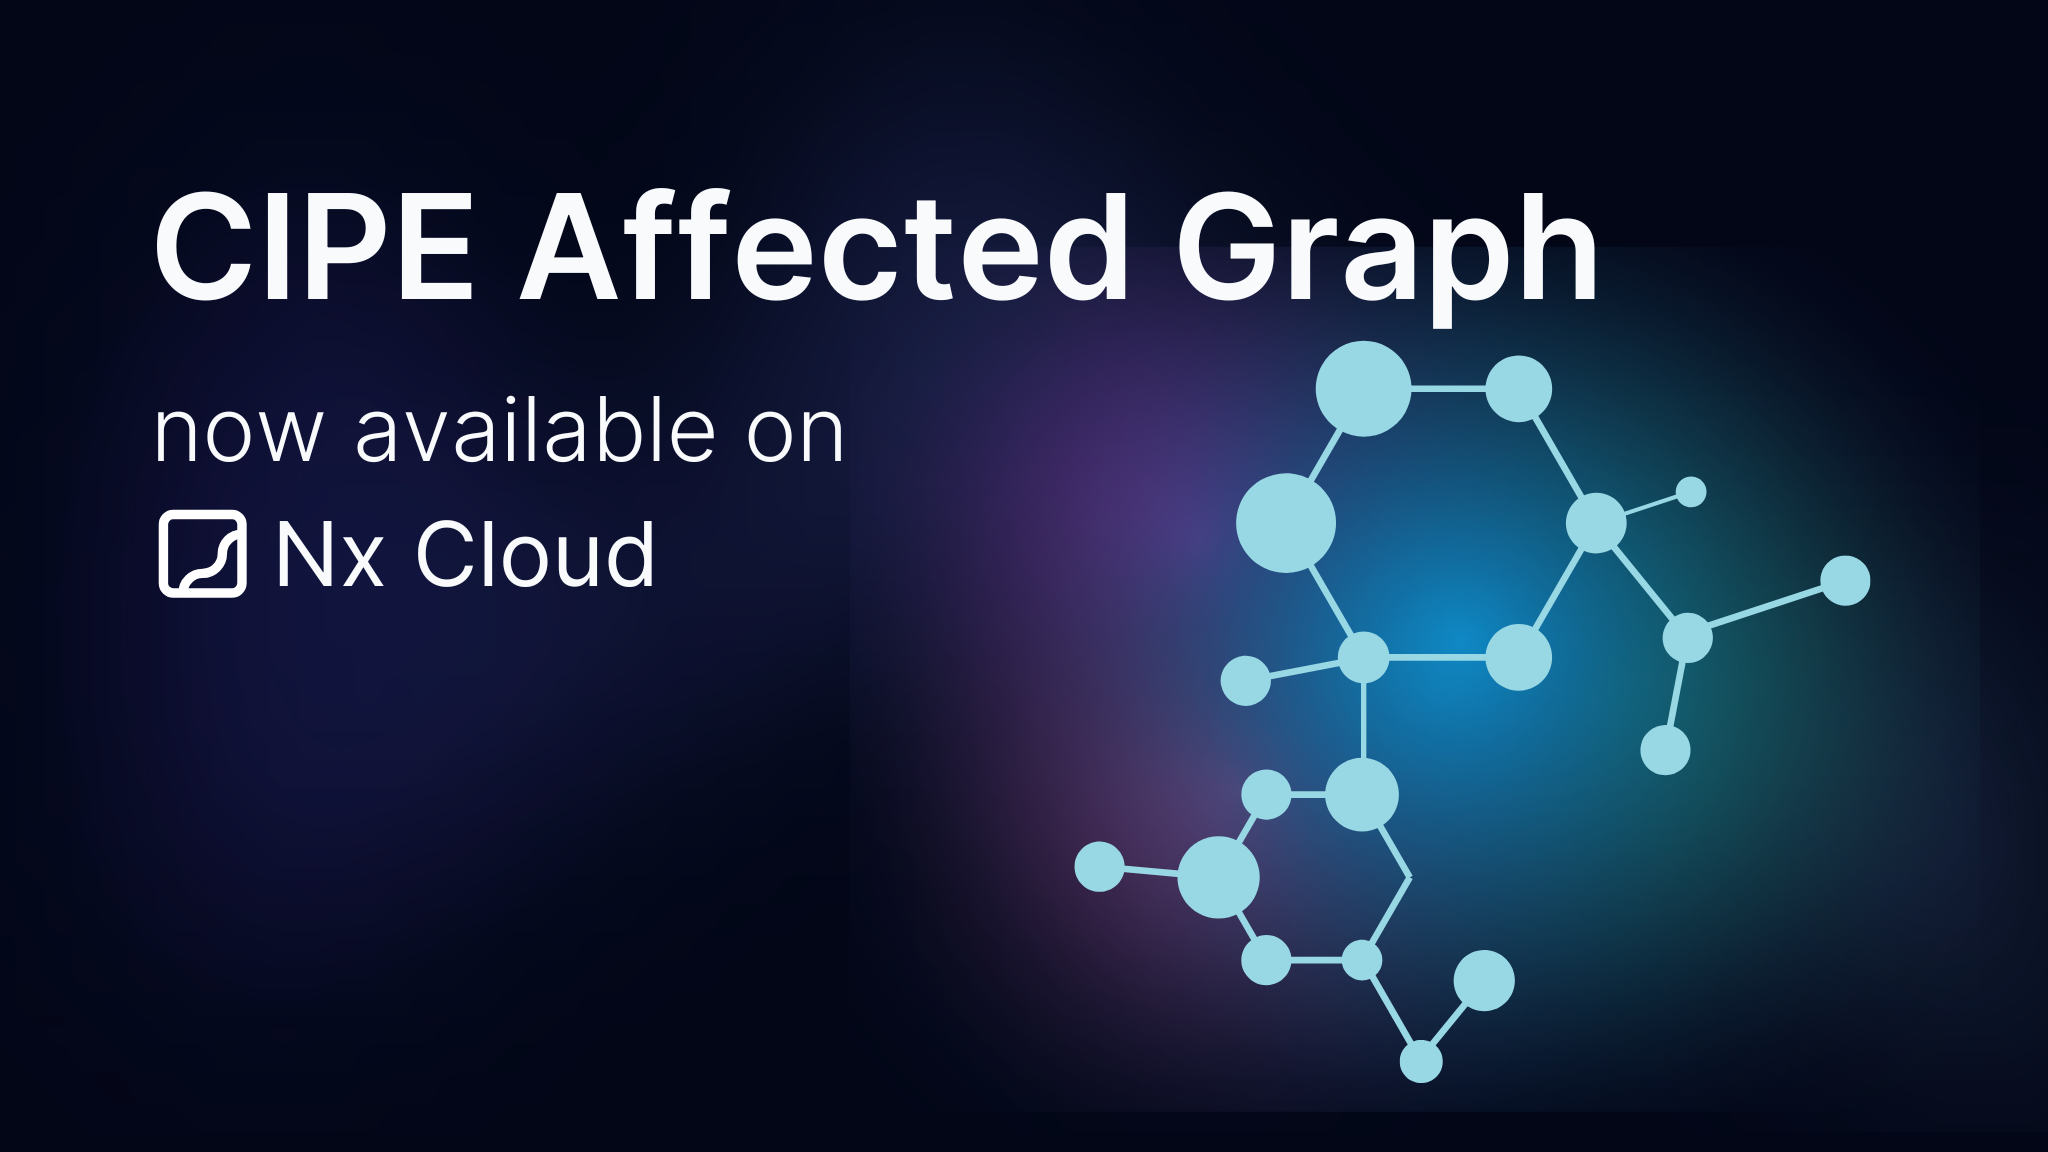
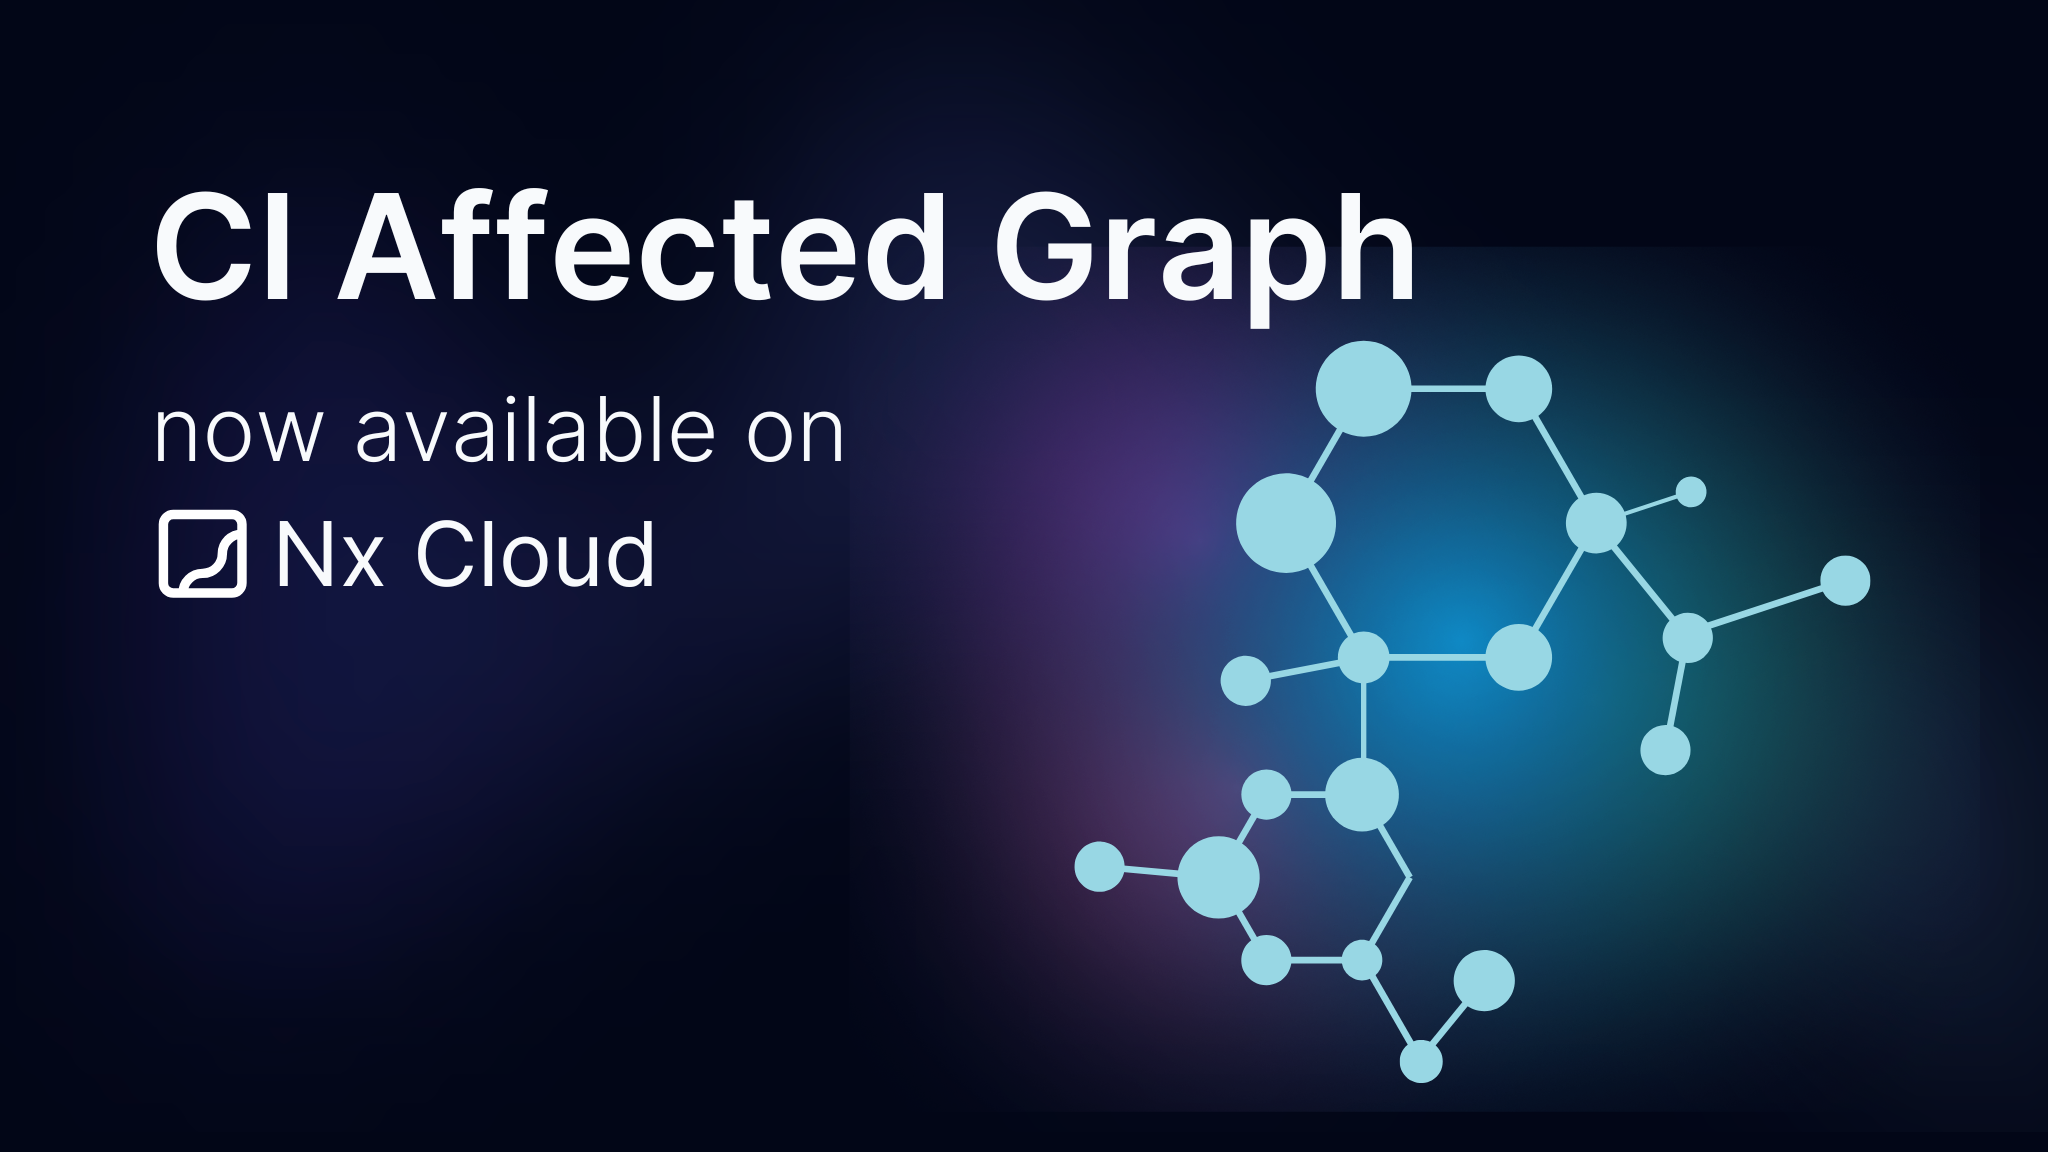
docs(nx-dev): changes based on feedback

Changed region(s): [[0.125, 0.1562, 0.7812, 0.2812]]

diff --git a/docs/blog/2024-11-11-ci-affected-graph.md b/docs/blog/2024-11-11-ci-affected-graph.md
@@ -1,6 +1,6 @@
 ---
-title: See your affected graph right on the CIPE
-slug: cipe-affected-graph
+title: See your affected graph in Nx Cloud
+slug: ci-affected-graph
 authors: ['Philip Fulcher']
 tags: [nx-cloud]
 cover_image: /blog/images/2024-11-11/header.avif
@@ -8,7 +8,7 @@ cover_image: /blog/images/2024-11-11/header.avif
 
 As monorepos grow in size and complexity, it can be difficult to understand the relationships between different parts of
 your codebase. That's why Nx has the [graph visualization](/features/explore-graph) that helps you see the different
-connections between projects and tasks in your workspace. But that runs locally, and sometimes you need to see that same graph from your CI's perspective. Now you can do that with the CIPE affected graph in Nx Cloud.
+connections between projects and tasks in your workspace. But that runs locally, and sometimes you need to see that same graph from your CI's perspective. Now you can do that with the CI affected graph in Nx Cloud.
 
 ## More insight into CI tasks
 
@@ -16,13 +16,15 @@ The CLI graph visualization can give you some information about what projects or
 CI may run different tasks than you do locally, or compare to different branches for affected calculations. So you often
 feel like you're passing your work off to a black box with no insight into why a project is marked as affected on CI.
 
+What do we mean by "marked as affected?" In a monorepo, running all your tasks, all the time, quickly becomes untenable. You'll either be wasting time waiting for tasks to finish, or spending a fortune on runners powerful enough to run in a timely manner. Instead, Nx analyzes the structure of your workspace and understands the relationship between different projects. When you run [`affected`](/ci/features/affected) tasks, it traces the projects that are actually affected by the change. For example, if you've made changes to a single app, Nx only marks that app as affected and doesn't run tasks for any other app.
+
 ## How do I use it?
 
-The affected graph is available on all CI Pipeline Executions (CIPEs) in Nx Cloud. Click the new "Affected Graph" link at the top of your CIPE view.
+The CI affected graph is available on all CI Pipeline Executions (CIPEs) in Nx Cloud. Click the new "Affected Graph" link at the top of your CIPE view.
 
-![Screenshot of affected graph inside a CIPE on Nx Cloud](/blog/images/2024-11-11/screenshot.avif)
+![Screenshot of CI affected graph on Nx Cloud](/blog/images/2024-11-11/screenshot.avif)
 
-The CIPE graph uses the new [Composite Graph](/features/explore-graph#focusing-on-valuable-projects) introduced in Nx 20.
+The CI affected graph uses the new [Composite Graph](/features/explore-graph#focusing-on-valuable-projects) introduced in Nx 20.
 Groups of projects are collapsed into a single node on the graph based on directories. You can expand those nodes to see
 inside by double-clicking them, or by clicking on the node and then clicking "Expand".
 
@@ -33,14 +35,15 @@ public [Nx OSS workspace](https://staging.nx.app/cipes/673137bc4c6704317ca09c7d/
 
 Not an Nx Cloud user? You can get started today, for free!
 
-{% call-to-action title="Get started with Nx Cloud" url="https://cloud.nx.app" icon="nxcloud" description="Try Nx Cloud for Free" %}
+{% call-to-action title="Get started with Nx Cloud" url="/nx-cloud" icon="nxcloud" description="Try Nx Cloud for Free" %}
 Get started with Nx Cloud
 {% /call-to-action %}
 
 ## Learn more
 
 - [Nx Docs](/getting-started/intro)
-- [X/Twitter](https://twitter.com/nxdevtools) -- [LinkedIn](https://www.linkedin.com/company/nrwl/)
+- [X/Twitter](https://twitter.com/nxdevtools)
+- [LinkedIn](https://www.linkedin.com/company/nrwl/)
 - [Nx GitHub](https://github.com/nrwl/nx)
 - [Nx Official Discord Server](https://go.nx.dev/community)
 - [Nx Youtube Channel](https://www.youtube.com/@nxdevtools)
